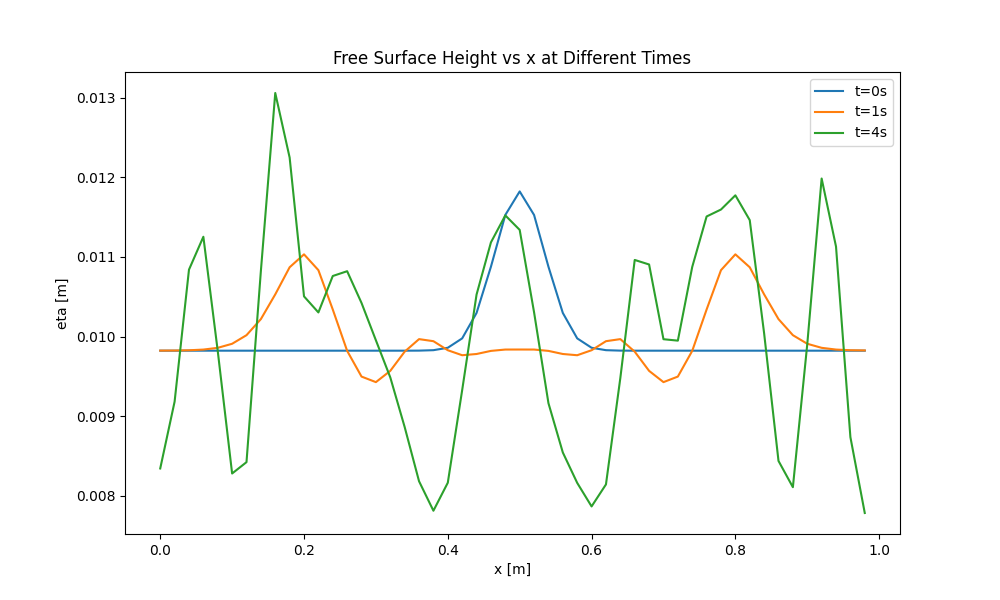
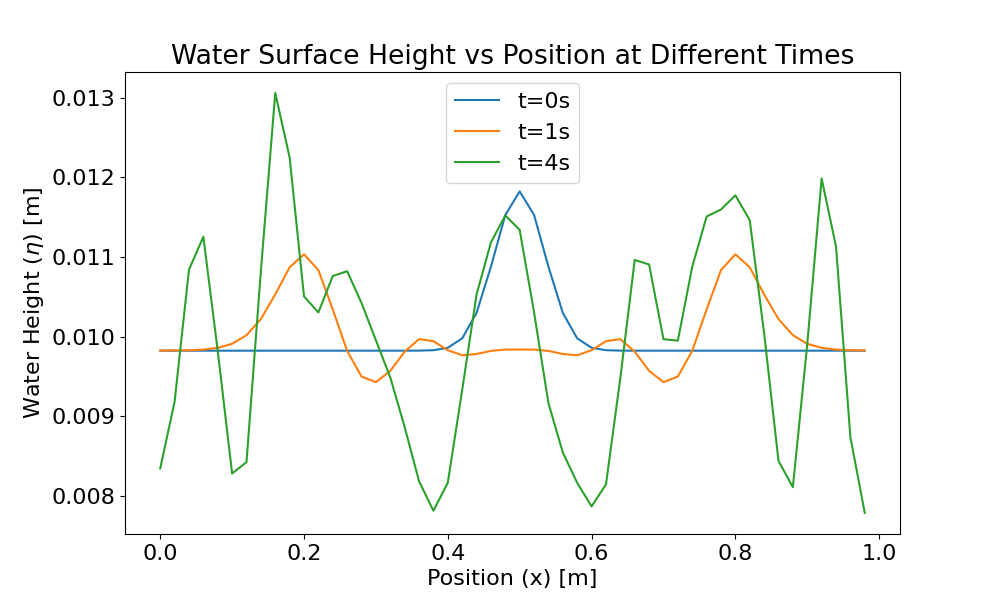
Finished Lab Report 4

diff --git a/Lab Report 4/Lab4_Q2.py b/Lab Report 4/Lab4_Q2.py
@@ -1,13 +1,24 @@
 import numpy as np
 import matplotlib.pyplot as plt
 
+"""Code for Q2: Plots the Water wave height at various times.
+Simulates both water height and velocity using FTCS method"""
+
+"""Part B"""
+
+plt.rcParams.update(
+    {"figure.figsize": [12, 8], "font.size": 16}
+)  # Large figure and font sizes
+
 # Initial Parameters
 L = 1  # Length [m]
 g = 9.81  # Acceleration due to gravity [m/s^2]
 
+# Time and space steps
 deltax = 0.02  # [m]
 deltat = 0.01  # [s]
 
+# Space array and length
 x = np.arange(0, L, deltax)
 J = len(x) - 1
 
@@ -33,10 +44,10 @@ plt.plot(x, eta, label="t=0s")
 
 """Implement FTCS method"""
 
-c = deltat / (2 * deltax)
+c = deltat / (2 * deltax)  # helper variable
 
 # Time loop
-epsilon = deltat / 100
+epsilon = deltat / 1000
 t1 = 1  # [s]
 t2 = 4  # [s]
 tend = t2 + epsilon
@@ -46,12 +57,13 @@ t = 0
 while t < tend:
     t = t + deltat
 
-    u[0], u[-1] = 0, 0
-    # eta[0], eta[-1] = H, H
+    u[0], u[-1] = 0, 0  # Boundary conditions
 
+    # Helper variables
     u_squared = u**2
     u_new, eta_new = np.zeros(len(x)), np.zeros(len(x))
 
+    # Euler Method for boundaries
     u_new[0] = u[0] - deltat / deltax * (
         0.5 * u_squared[1] + g * eta[1] - 0.5 * u_squared[0] - g * eta[0]
     )
@@ -62,6 +74,7 @@ while t < tend:
     )
     eta_new[J] = eta[J] - deltat / deltax * ((eta[J] * u[J]) - (eta[J - 1] * u[J - 1]))
 
+    # Main equation of FTCS, flux conservative equations
     u_new[1:J] = u[1:J] - c * (
         0.5 * u_squared[2 : J + 1]
         + g * eta[2 : J + 1]
@@ -72,19 +85,20 @@ while t < tend:
         (eta[2 : J + 1] * u[2 : J + 1]) - eta[0 : J - 1] * u[0 : J - 1]
     )
 
+    # Deep copy to use in next iteration
     u, eta = u_new.copy(), eta_new.copy()
 
-    # Now plot at appropriate times
+    # Plot at appropriate times
     if abs(t - t1) < epsilon:
         plt.plot(x, eta, label="t=1s")
 
     if abs(t - t2) < epsilon:
         plt.plot(x, eta, label="t=4s")
 
-# Finalize the plot
-plt.xlabel("x [m]")
-plt.ylabel("eta [m]")
-plt.title("Free Surface Height vs x at Different Times")
+# Final plot
+plt.xlabel("Position (x) [m]")
+plt.ylabel("Water Height ($\eta$) [m]")
+plt.title("Water Surface Height vs Position at Different Times")
 plt.legend()
 plt.savefig("Lab4Q2_combined.png")
 plt.show()

diff --git a/Lab Report 4/Lab4_Q3.py b/Lab Report 4/Lab4_Q3.py
@@ -1,12 +1,24 @@
 import numpy as np
 import matplotlib.pyplot as plt
 
+"""Code for Q3: Plots the fluid velocity using Leapfrog-like
+method. Initial wave is a gaussian that travels outward."""
+
+"""Part A and B"""
+
+plt.rcParams.update(
+    {"figure.figsize": [12, 8], "font.size": 16}
+)  # Large figure and font sizes
+
 # Initial Parameters
-epsilon = 1
-deltax = 0.02  # [m]
-deltat = 0.005  # [s]
+epsilon = 1  # constant
 Lx = 2 * np.pi  # [m]
 
+# Time and space steps
+deltax = 0.02  # [m]
+deltat = 0.005  # [s]
+
+# Final Time
 Tf = 2  # [s]
 
 # Initial arrays (t = 0)
@@ -22,7 +34,7 @@ plt.plot(x, u, label="t=0s")
 
 """Implement FTCS method"""
 
-beta = epsilon * deltat / deltax
+beta = epsilon * deltat / deltax  # helper variable
 
 # Time loop
 epsilon = deltat / 100
@@ -33,21 +45,24 @@ tend = Tf + epsilon
 
 t = 0
 
-# define two arrays for u
+# define two arrays for u, at time t and t + deltat
 u1 = u
-u2 = u - deltat * u * np.cos(x)
+u2 = u - deltat * u * np.cos(x)  # u(t + deltat) = u - deltat * u * derivative(u)
 
 while t < tend:
     t = t + deltat
 
-    # Boundary condition satisfy
+    # Boundary condition
     u1[0], u2[0], u1[-1], u2[-1] = 0, 0, 0, 0
 
+    # Helper variables
     u_new = np.zeros(len(x))
     u2_squared = u2**2
 
+    # Leapfrog-like equation
     u_new[1:N] = u1[1:N] - beta / 2 * (u2_squared[2 : N + 1] - u2_squared[0 : N - 1])
 
+    # Update, use in next iteration
     u1, u2 = u2.copy(), u_new.copy()
 
     # Plot of u vs x at specified times
@@ -64,9 +79,9 @@ while t < tend:
         plt.plot(x, u2, label=f"t={t3}s")
 
 # Finalize the plot
-plt.xlabel("x [m]")
-plt.ylabel("u [m/s]")
-plt.title("u vs x at Different Times")
+plt.xlabel("Position (x) [m]")
+plt.ylabel("Fluid Velocity (u) [m/s]")
+plt.title("Fluid Velocity vs Position at Various Times")
 plt.legend()
 plt.savefig("Lab4Q3_combined.png")
 plt.show()

diff --git a/Lab Report 4/Lab4_Q1.py b/Lab Report 4/Lab4_Q1.py
@@ -2,6 +2,14 @@ import numpy as np
 import matplotlib.pyplot as plt
 import time
 
+"""Code for Q1: Plots the Potential Map and Electric Field
+associated with a parallel plate capacitor in a grounded box.
+Uses relaxation and overrelaxation methods coupled with Gauss-Seidel."""
+
+plt.rcParams.update(
+    {"figure.figsize": [12, 8], "font.size": 20}
+)  # Large figure and font sizes
+
 
 def LaplacianSolver(initial_phi, target, w=0):
     """
@@ -69,7 +77,7 @@ print("Time Taken for w = 0 is ", time.time() - start)
 
 plt.contourf(phi_relaxed, cmap="RdBu")
 plt.colorbar()
-plt.title("Potential Map of Capacitor")
+plt.title("Potential Map of Parallel Plate Capacitor (relaxation method)")
 plt.xlabel("x [mm]")
 plt.ylabel("y [mm]")
 # plt.show()
@@ -88,7 +96,7 @@ print("Time Taken for w = 0.1 is ", time.time() - start)
 
 plt.contourf(phi_overrelaxed1, cmap="RdBu")
 plt.colorbar()
-plt.title("Potential Map of Capacitor (w=0.1)")
+plt.title("Potential Map of Parallel Plate Capacitor (w=0.1)")
 plt.xlabel("x [mm]")
 plt.ylabel("y [mm]")
 # plt.show()
@@ -105,7 +113,7 @@ print("Time Taken for w = 0.5 is ", time.time() - start)
 
 plt.contourf(phi_overrelaxed2, cmap="RdBu")
 plt.colorbar()
-plt.title("Potential Map of Capacitor (w=0.5)")
+plt.title("Potential Map of Parallel Plate Capacitor (w=0.5)")
 plt.xlabel("x [mm]")
 plt.ylabel("y [mm]")
 # plt.show()
@@ -118,7 +126,7 @@ x = np.linspace(0, 100, 100)
 y = np.linspace(0, 100, 100)
 X, Y = np.meshgrid(x, y)
 
-Ey, Ex = np.gradient(-phi_relaxed, y, x)
+Ey, Ex = np.gradient(-phi_relaxed, y, x)  # E = -grad(phi)
 
 strm = plt.streamplot(X, Y, Ex, Ey, color=phi_relaxed, linewidth=2, cmap="RdBu")
 cbar = plt.colorbar(strm.lines)
